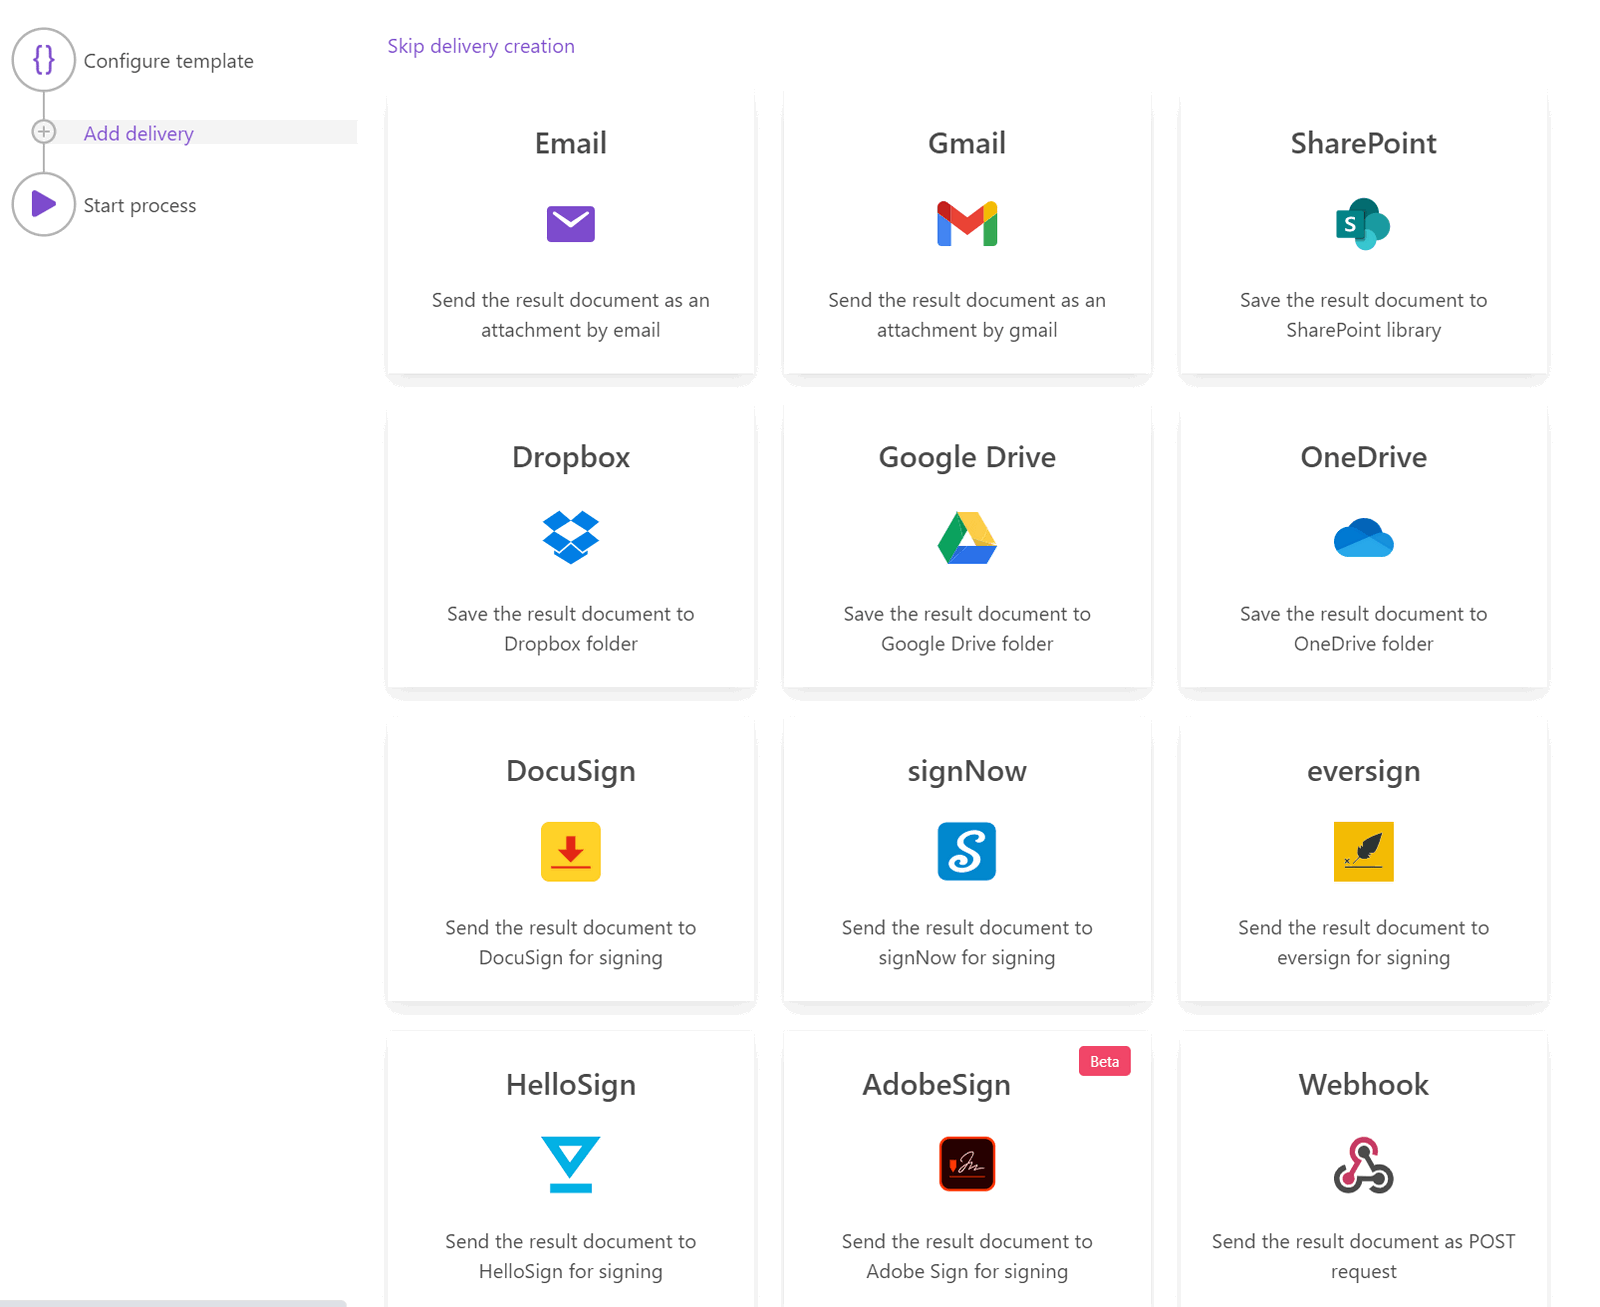
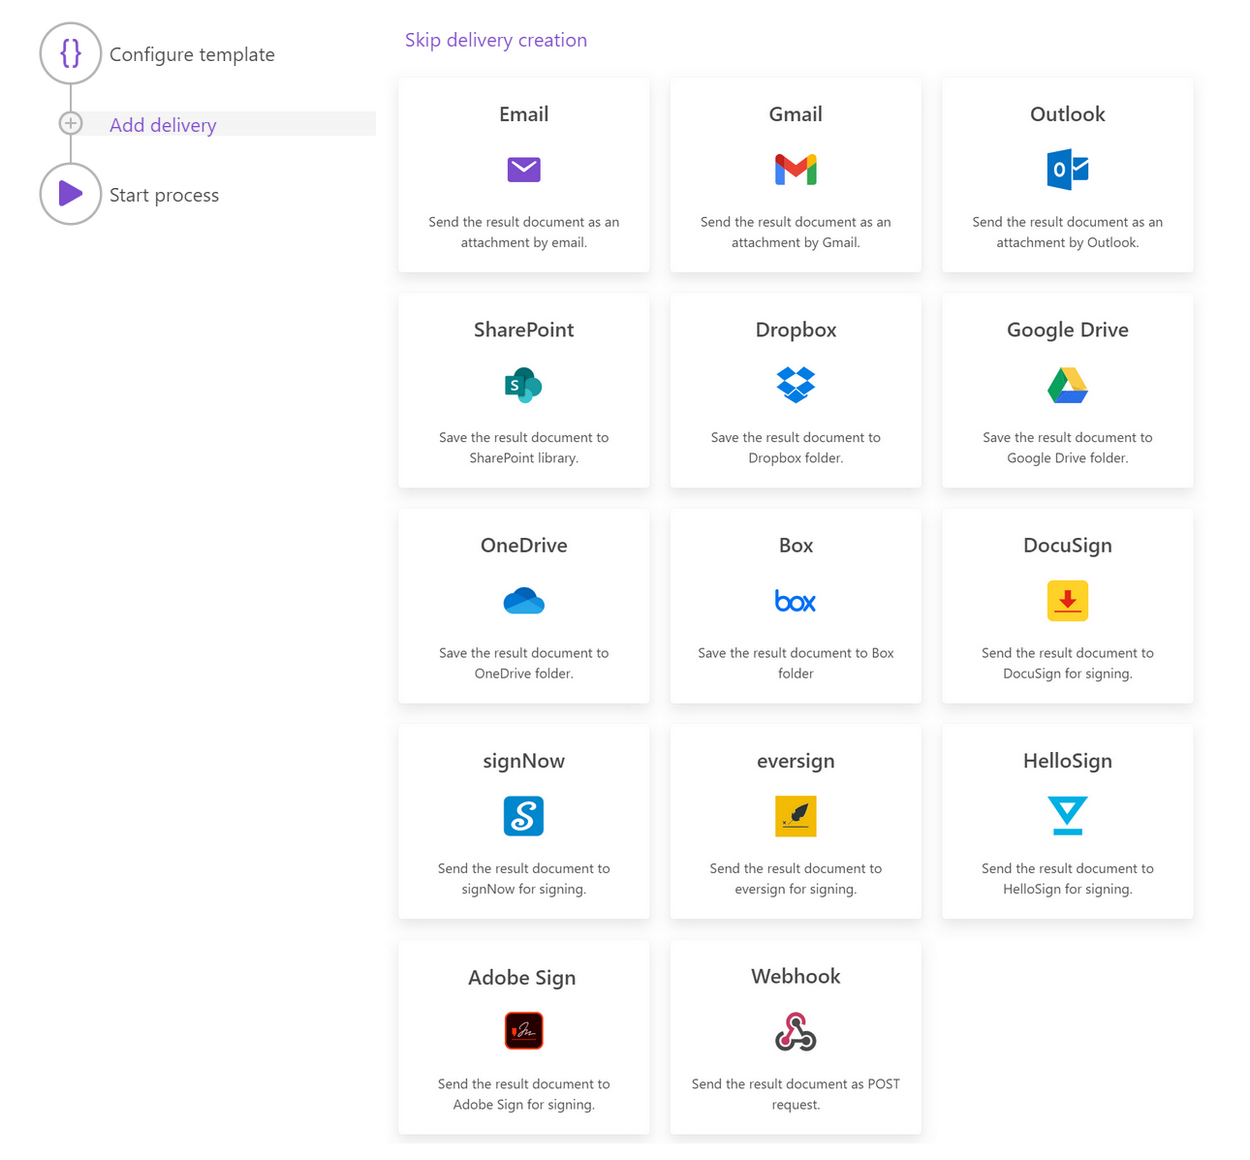
updated deliveries, added adobe sign

diff --git a/source/user-guide/processes/create-delivery.rst b/source/user-guide/processes/create-delivery.rst
@@ -29,14 +29,15 @@ Use the links below to learn more about each delivery:
     
   deliveries/send-email
   deliveries/gmail
-  deliveries/docusign
-  deliveries/signnow
-  deliveries/hellosign
-  deliveries/eversign
   deliveries/sharepoint
-  deliveries/one-drive
   deliveries/dropbox
   deliveries/google-drive
+  deliveries/one-drive
+  deliveries/docusign
+  deliveries/signnow
+  deliveries/eversign
+  deliveries/hellosign
+  deliveries/adobe-sign
   deliveries/webhook
 
 .. Note:: 
